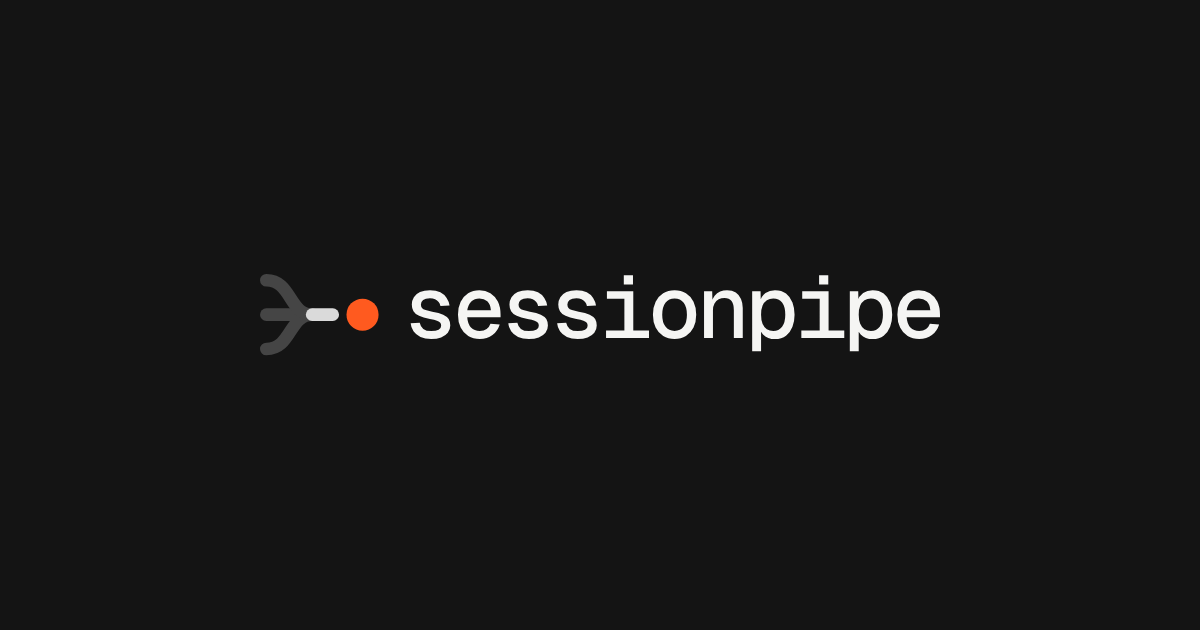
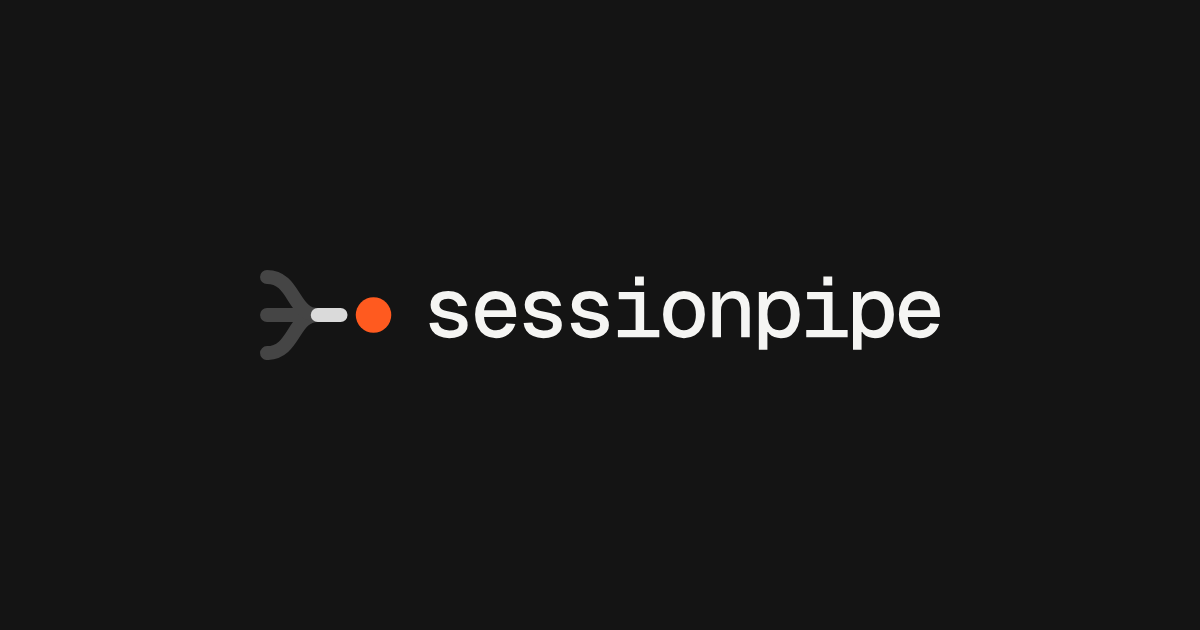
Brand QA: the lockup as the design draws it, and a quiet live dot
The name sits at 46/88 of the mark's box with its pen 9/88 past it, as page3 sets its
lockups; the sidebar's box grows to 29 px so the lockup stays over the brand's 120 px
minimum, and the server pages, the README lockups and og.png follow. The live connection
dot is a neutral one: the orange is the only bright colour, and green was a second.

Changed region(s): [[0.2158, 0.4222, 0.7708, 0.573], [0.2158, 0.4222, 0.2467, 0.4825]]

diff --git a/web/src/styles/shell.css b/web/src/styles/shell.css
@@ -159,8 +159,10 @@
   border-radius: 50%;
   background: var(--fg-4);
 }
+/* Live is the normal state, so it stays quiet: a solid neutral dot (connecting is a ring,
+   offline the error red). The brand's one bright colour is the needs-you orange. */
 .conn--live .conn-dot {
-  background: var(--ok);
+  background: var(--fg-3);
 }
 .conn-label {
   font-variant-numeric: tabular-nums;
@@ -441,12 +443,13 @@
     justify-content: space-between;
     padding: 0 10px 0 16px;
   }
-  /* The sidebar's head is the lockup, from the mark's 64-unit box: the name's ink is 33.18
-     units tall and starts 9.5 past the box (one dot's width from the dot), its centre 0.61
-     above the mark's, so both share the x-height's centre line (docs/brand.md). A 26 px box
-     makes it 121 px wide, the brand's smallest; the rail alone keeps the mark at 28. */
+  /* The sidebar's head is the lockup, from the mark's 64-unit box, exactly as the design
+     draws it (docs/brand.md): the name's ink is 28.905 units tall and starts 9.048 past the
+     box, its centre 0.707 above the mark's, so both share the x-height's centre line. A 29 px
+     box makes it 122 px wide, just over the brand's smallest (120); the rail alone keeps
+     the mark at 28. */
   .shell--side .rail-brand {
-    --brand-box: 26px;
+    --brand-box: 29px;
     justify-content: flex-start;
     gap: 0;
   }
@@ -456,9 +459,9 @@
   }
   .shell--side .rail-word {
     display: inline-block;
-    height: calc(var(--brand-box) * 33.18 / 64);
-    margin-left: calc(var(--brand-box) * 9.5 / 64);
-    translate: 0 calc(var(--brand-box) * -0.61 / 64);
+    height: calc(var(--brand-box) * 28.905 / 64);
+    margin-left: calc(var(--brand-box) * 9.048 / 64);
+    translate: 0 calc(var(--brand-box) * -0.707 / 64);
   }
   .shell--side .rail-nav {
     padding: 8px;

diff --git a/server/ui/brand.ts b/server/ui/brand.ts
@@ -16,10 +16,10 @@ const MARK =
 export const markSvg = (size: number): string =>
   `<svg width="${size}" height="${size}" viewBox="0 0 64 64" aria-hidden="true">${MARK}</svg>`;
 
-/** Mark and name, `height` px tall (the name's ink, 121 px wide at 15). Needs
- *  WORDMARK_CSS. */
-export const wordmarkHtml = (height = 15): string =>
-  `<svg class="wordmark" role="img" aria-label="sessionpipe" width="${Math.round((height * 2990.61) / 37) / 10}" height="${height}" viewBox="5.5 13.5 299.061 37">${MARK}<path fill="currentColor" transform="translate(73.5 14.797) scale(.96)" d="${NAME_PATH}"/></svg>`;
+/** Mark and name, `height` px tall (124 px wide at 17, just over the brand's smallest
+ *  lockup, 120). Needs WORDMARK_CSS. */
+export const wordmarkHtml = (height = 17): string =>
+  `<svg class="wordmark" role="img" aria-label="sessionpipe" width="${Math.round((height * 2688.505) / 37) / 10}" height="${height}" viewBox="5.5 13.5 268.851 37">${MARK}<path fill="currentColor" transform="translate(73.048 16.841) scale(.836364)" d="${NAME_PATH}"/></svg>`;
 
 export const WORDMARK_CSS =
   ".wordmark{display:block;flex:none;color:var(--fg);--brand-inlet:#c4c4c0;--brand-stream:#141414;--brand-dot:#ff5a1f}@media (prefers-color-scheme:dark){.wordmark{--brand-inlet:#454545;--brand-stream:#dadada}}";

diff --git a/server/ui/brand.test.ts b/server/ui/brand.test.ts
@@ -12,8 +12,8 @@ describe("the server pages' lockup", () => {
 
   it("is one inline svg with the brand's geometry and colours, no font and no fetch", () => {
     const html = wordmarkHtml();
-    expect(html).toMatch(/^<svg class="wordmark" role="img" aria-label="sessionpipe" width="121.2" height="15"/);
-    expect(html).toContain('viewBox="5.5 13.5 299.061 37"');
+    expect(html).toMatch(/^<svg class="wordmark" role="img" aria-label="sessionpipe" width="123.5" height="17"/);
+    expect(html).toContain('viewBox="5.5 13.5 268.851 37"');
     expect(html).not.toMatch(/href=|url\(|<text/);
     expect(WORDMARK_CSS).toContain("--brand-dot:#ff5a1f");
   });

diff --git a/docs/brand.md b/docs/brand.md
@@ -29,9 +29,11 @@ the cut by the size the 64-unit box renders at:
 ## The lockup
 
 The mark, then **sessionpipe** in Geist Mono 500 at −0.045 em, outlined
-(`web/public/brand/name.svg`), so it never depends on a font. The name's ink is 33.18 u
-tall, starts one dot's width past the dot and shares the mark's x-height centre line. The
-sidebar sets it from a 26 px box (121 px wide, the smallest the brand allows); the name is
+(`web/public/brand/name.svg`), so it never depends on a font. It is placed exactly as the
+design draws its lockups: the name is set at 46/88 of the mark's box, its ink is 28.905 u
+tall, starts 9.048 u past the box (about one dot's width from the dot) and shares the mark's
+x-height centre line. The sidebar sets it from a 29 px box (122 px wide, just over the
+120 px the brand allows); the name is
 a CSS mask in the text colour (`.brand-name`, brand.css), so it follows the scheme. The
 server-rendered pages (`/trust`, the 401 page) inline the same lockup as one SVG
 (`server/ui/brand.ts`; a unit test keeps its path equal to `name.svg`).

diff --git a/README.md b/README.md
@@ -1,7 +1,7 @@
 <p align="center">
   <picture>
     <source media="(prefers-color-scheme: dark)" srcset="https://raw.githubusercontent.com/spacesheep-dev/sessionpipe-gui/main/web/public/brand/wordmark-dark.svg">
-    <img src="https://raw.githubusercontent.com/spacesheep-dev/sessionpipe-gui/main/web/public/brand/wordmark.svg" alt="sessionpipe gui" width="274">
+    <img src="https://raw.githubusercontent.com/spacesheep-dev/sessionpipe-gui/main/web/public/brand/wordmark.svg" alt="sessionpipe gui" width="248">
   </picture>
 </p>
 
